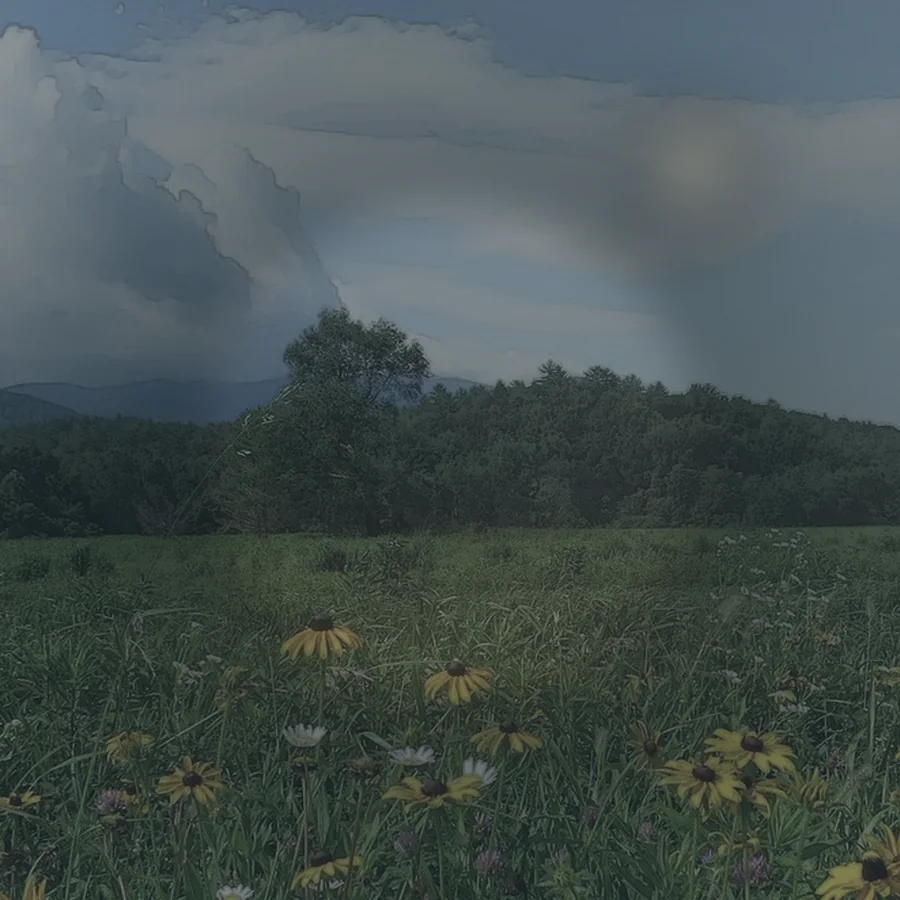
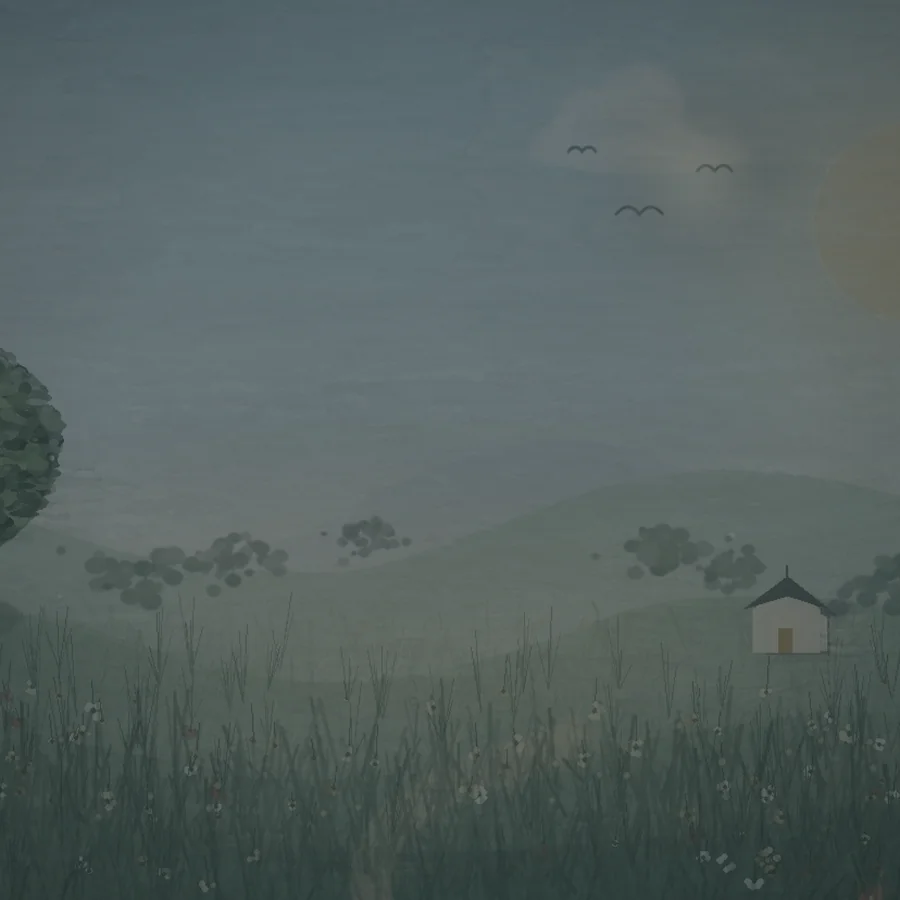
Repaint the meadow as a fully original illustration

diff --git a/assets/css/style.css b/assets/css/style.css
@@ -453,6 +453,7 @@ svg {
   object-fit: cover;
   object-position: center 55%;
   pointer-events: none;
+  filter: saturate(1.1) contrast(1.035) brightness(1.005);
   -webkit-user-drag: none;
   user-select: none;
 }

diff --git a/README.md b/README.md
@@ -2,7 +2,7 @@
 
 MEROBOT 的单页英文官网。视觉概念是 **“Field Station / 野外观察站”**：一页来自机器人实验室的田野笔记，暖纸、等高线、手绘感草甸与黄铜/铁锈色的线稿机器人，配硬朗清晰的现代技术排版。中央机器人保留完整的待命与悬停互动，左右四张 field note 对应 Research、Education、Projects、Solutions，底部是四个预留入口与联系方式通栏。
 
-当前状态：**v3 手绘方向样稿，等待确认后部署。**
+当前状态：**v4 全原创手绘方向样稿，等待确认后部署。**
 
 ## 本地预览
 
@@ -28,10 +28,10 @@ python -m http.server 4173 --bind 127.0.0.1
 ## 视觉规范
 
 - **概念**：自然与机械共存的田野观察站。不是复制吉卜力作品；机器人、卡片插画、排版与交互均为原创。
-- **背景**：在公有领域草甸照片基础上做了大幅调色与绘画化处理，作为“手绘背景”；机器人保持干净的线稿/赛璐璐角色感。
+- **背景**：由站内原创矢量草甸底稿重新绘制，叠加程序化笔触、树叶、草丛与纸张颗粒；不使用照片或外部图像，机器人保持手绘线稿角色感。
 - **字体**：Archivo（可变宽度，硬朗无衬线）+ IBM Plex Mono（标签/数据）。
 - **颜色**：暖纸 `#f3e9d3`、森林绿 `#22362b`、苔藓 `#6f8b62`、赭金 `#d2a04a`、铁锈 `#a95433`。
-- **纹理**：等高线背景、纸张颗粒、照片基底上的绘画化处理；全部本地资源，无第三方运行时请求。
+- **纹理**：等高线背景、纸张颗粒、程序化笔触与颜料叠色；全部本地资源，无第三方运行时请求。
 
 ## 文件结构
 
@@ -61,9 +61,9 @@ python -m http.server 4173 --bind 127.0.0.1
 
 `tools/` 是本地设计工具（截图、纹理与 OG 渲染脚本），已加入 `.gitignore`，不会部署。
 
-## 图片版权
+## 画面说明
 
-草甸基底来自 **“Summer meadow, Cades Cove, July 2013” — Warren Bielenberg / Great Smoky Mountains National Park**，公有领域（[Wikimedia Commons](<https://commons.wikimedia.org/wiki/File:Summer_meadow,_Cades_Cove,_July_2013--Warren_Bielenberg_(39405197074).jpg>)）。在该照片上进行了调色、绘画化、裁切与叠加处理；机器人、插画、版式和交互为本站设计。
+页面所有视觉素材均为本站原创：机器人、field note 插图、图标、版式，以及由站内矢量草甸底稿生成的手绘感草甸。没有使用照片、外部插画或第三方图片。
 
 ## 待确认 / 替换清单
 
